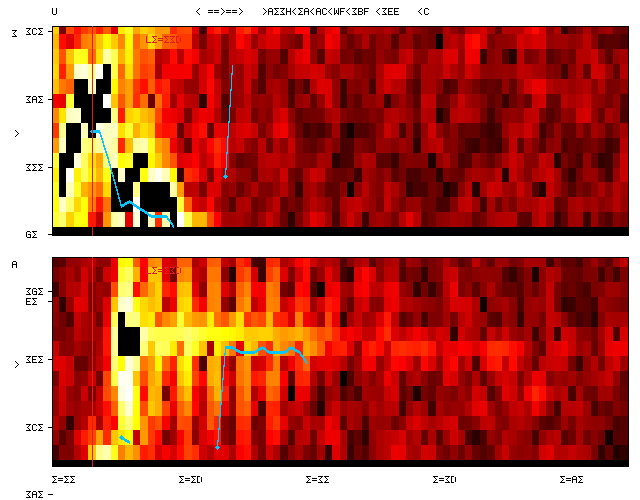
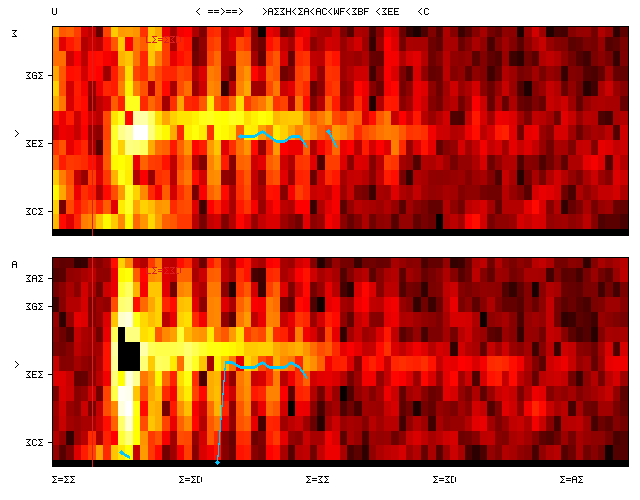
spectro_png : zoom Y centré sur la vitesse estimée vBall (médiane des ridges post-impact filtrés à ±600 Hz de vBall*KV) — rejette les faux pics basse fréquence (~50 km/h)
Generated by Mistral Vibe.

diff --git a/Cpp/src/spectro_png.cpp b/Cpp/src/spectro_png.cpp
@@ -49,17 +49,18 @@ int main(int argc, char** argv) {
     const uint8_t CYAN[3] = {0, 200, 255}, ROUGE[3] = {220, 30, 30}, NOIR[3] = {0, 0, 0};
     auto draw_panel = [&](const EstRadar& e, int y0, const char* label) {
         int Wimg = W - ML - 12;
-        // zoom Y : ±600 Hz autour de la médiane du ridge post-impact (raies visibles)
+        // zoom Y : filtrage centré sur la VITESSE ESTIMÉE vBall*KV — on prend la médiane
+        // des ridges post-impact situés à ±600 Hz de vBall*KV (rejette les faux pics basse
+        // fréquence), puis zoom ±600 Hz autour de cette médiane. Raies micro-Doppler visibles.
+        double fest = e.vball_kmh * KV;
         std::vector<double> rr;
         for (int fr = e.spec_i0; fr < e.spec_nframe; fr++)
-            if (e.spec_power[fr] > 0.03) rr.push_back(e.spec_ridge[fr]);
-        double fz0 = e.spec_fmin, fz1 = e.spec_fmax;
-        if (rr.size() >= 3) {
-            std::sort(rr.begin(), rr.end());
-            double fm = rr[rr.size() / 2];
-            fz0 = std::max(e.spec_fmin, fm - 600.0);
-            fz1 = std::min(e.spec_fmax, fm + 600.0);
-        }
+            if (e.spec_power[fr] > 0.03 && std::fabs(e.spec_ridge[fr] - fest) <= 600.0)
+                rr.push_back(e.spec_ridge[fr]);
+        double fm = fest;
+        if (rr.size() >= 3) { std::sort(rr.begin(), rr.end()); fm = rr[rr.size() / 2]; }
+        double fz0 = std::max(e.spec_fmin, fm - 600.0);
+        double fz1 = std::min(e.spec_fmax, fm + 600.0);
         fz1 = std::min(fz1, 350.0 * KV);   // une balle de golf ne dépasse pas ~350 km/h
         auto X = [&](int fr){ return ML + (int)((double)fr / e.spec_nframe * Wimg); };
         auto Y = [&](double f){ return y0 + Hpan - (int)((f - fz0) / (fz1 - fz0) * Hpan); };
